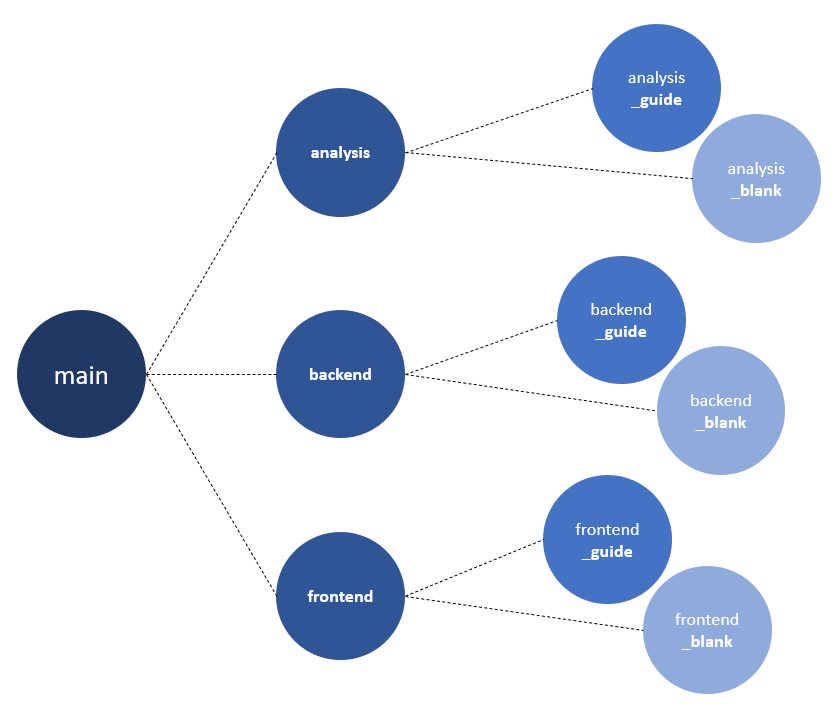
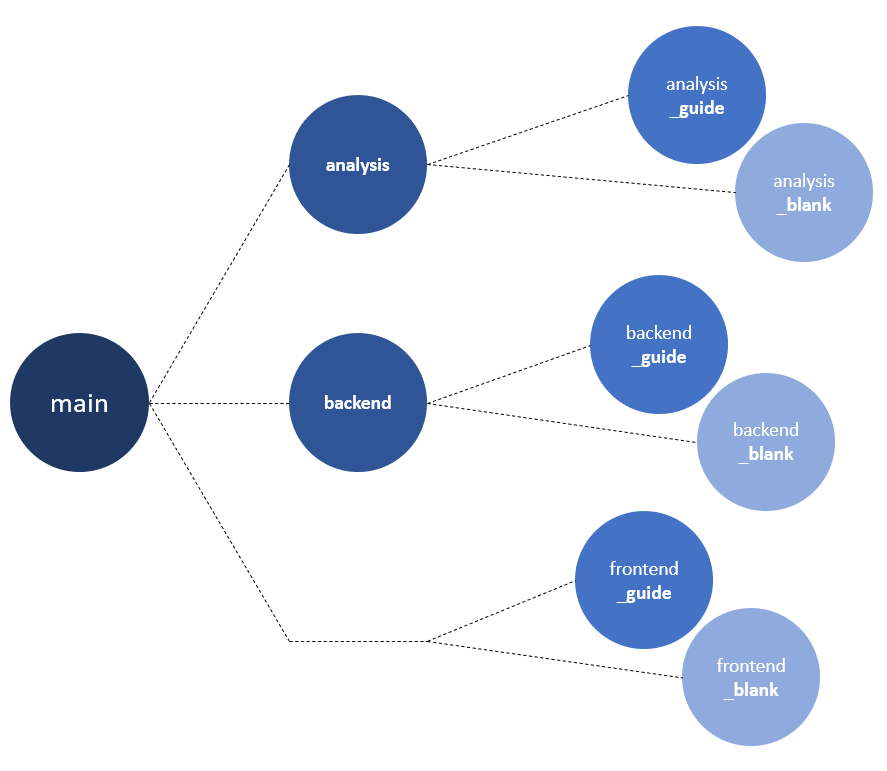
Updated README

diff --git a/frontend/src/App.jsx b/frontend/src/App.jsx
@@ -28,11 +28,11 @@ function App() {
 
   return (
 
-    <div className="App">
+    <div>
 
       <div className="powered-by">
-        <a href="https://www.trinnovative.de/">
-          <img className="logo" src={trinnovativeLogo} alt="Trinnovative" />
+        <a href="https://www.trinnovative.de/" target="_blank">
+          <img className="logo" src={trinnovativeLogo} alt="Trinnovative Logo"/>
         </a>
       </div>
 

diff --git a/README.md b/README.md
@@ -5,74 +5,35 @@
 2) **Backend**: Embed the machine learning model into a RESTful service.
 3) **Frontend**: Design a graphical user interface to interact with the machine learning service.
 
-The git branches of this project represent different stages of the project depending on your skills level. 
+The git branches of this project represent different stages of the project depending on your skills level. If you feel comfortable, you can start with the *blank* level of each section. The *blank* level contains task descriptions and some hints how to do so. If you need some more guidance, the *guide* level is recommended. The parent branch contains the solution - here you can look up difficult tasks or compare your own solution.
 
-### Choose your starting point: 
-- If you want to start with developing a machine learning model, then switch to branch analysis_blank. If you need some more guidance, switch to branch analysis_guide. In branch analysis you can find the final solution. 
-- If you want to skip the machine learning part, you can also directly jump into the backend or the frontend part. **Depending on your skills level, choose either the *_blank* or the *_guide* starting point**.
 ![](./images/git_branches.PNG)
 
+### Choose your starting point: 
+- If you want to start with developing a machine learning model, then switch to branch analysis_guide and find tasks there. If you need some guidance, switch to branch analysis_guide and follow the step-by-step guide. In branch analysis you can find the final solution. 
+- If you want to skip the machine learning part, you can also directly jump into the backend or the frontend part. **Depending on your skills level, choose either the *blank* or the *guide* starting point**.
+
+
 ### How to get there:
-You can easily switch between branches with the checkout command from git. For example: <code>git checkout analysis_guide</code>.
+- You can easily switch between branches with the checkout command from git. For example: <code>git checkout analysis_guide</code>.
 
-# Analysis
-## Preparation
-1) Go to the Python website (https://www.python.org/downloads/) and **download** the latest version of **Python** for your operating system. Follow the installation instructions to install Python on your machine.
-2) Open a command prompt or terminal window on your machine and install required **packages**: <code>pip install pandas matplotlib seaborn scikit-learn joblib</code>.
-3) In order to work with **Jupyter Notebooks** (.ipynb-files), it may be necessary to download the appropriate **extension** in VSCode.
-4) Let's start! Open file *analysis.ipynb* and follow the **step-by-step guide** there.
-
-## Tips and tricks
-- You can easily run jupyter cells with shortcut STRG + ENTER.
-
-# Backend
-
-## Preparation 
-- During the process it may be necessary to install some packages:  
-    - pip install pydantic
-    - pip install uvicorn
-    - pip install fastapi
+# Try the final version
+This branch (main) contains the final version of the project. Find some instructions below on how to get this final version run. For more detailed information please checkout branches *analysis*, *backend* and *frontend_guide*. 
+## Analysis
 - Run [analysis.ipynb](./backend/analysis/analysis.ipynb) with button *Run All*. This will create the machine learning model file *model.joblib* in folder [artifacts](./backend/artifacts/). 
-- If you developed your own machine learning model in the *analysis* level before, you can adjust the final model to your own favorites before exporting it (see last cell in jupyter notebook [analysis.ipynb](./backend/analysis/analysis.ipynb)).
+- Therefore it may be necessary to...
+    - Go to the Python website (https://www.python.org/downloads/) and **download** the latest version of **Python** for your operating system. Follow the installation instructions to install Python on your machine.
+    - Open a command prompt or terminal window on your machine and install required **packages**: <code>pip install pandas matplotlib seaborn scikit-learn joblib</code>.
+    - In order to work with **Jupyter Notebooks** (.ipynb-files), it may be necessary to download the appropriate **extension** in VSCode.
 
+## Backend
+- Run [main.py](./backend/src/main.py).
+- It may be necessary to install required packages (pip install pydantic uvicorn fastapi).
 
-## Step-by-step guide
-The aim of this backend is to put the machine learning model into a RESTful service, which enables to call the prediction model in an easy and standardized way.
-
-1) **Think before coding.** What are necessary building blocks? How would you structure the project? Think about a possible approach.
-
-2) **Let's start.** First of all, let's try to bring the model from *model.joblib* to life. Put it into a class which can be used to make predictions. Continue implementation in [prediction_model.py](./backend/src/prediction_model.py).
-3) The prediction model should be approachable via a REST call. Therefore, implement a REST endpoint. Continue implementation in [main.py](./backend/src/main.py).
-4) You may noticed, that requestors post some data, which serves as input for the prediction model. Define an appropriate datatype. Continue implementation in [data_types.py](./backend/src/data_types.py).
-
-5) **Let's see if it works!** If you think you are ready, run [main.py](/backend/src/main.py). Open a tool like postman and send a request to *localhost:80*. Do you get a response?
-
-    ![Postman Example](./images/postman_example.PNG)
-
-# Frontend
-## Preparation
-- Download nodejs https://nodejs.org/en/download/
-- cd src
-- npm create vite@latest frontend -- --template react
-- cd frontend
-- **npm install**
-- **npm run dev**
-- open link http://localhost:5173/ in your browser
-- see the default webpage
-- find the corresponding source code in App.jsx
-- the styling is defined in App.css
-- use this template to build your own webpage
-
-## Step-by-step guide
-Make it look good:
-- Replace the headline 
-- Replace the two logos with an image about California
-- Add some numerical input fields
-- Adjust the button
+## Frontend
+- Switch into direcotry *frontend*: <code>cd frontend</code>
+- Install dependencies: <code>npm install</code>
+- Run frontend: <code>npm run dev</code>
+- Open link http://localhost:5173/ in your browser.
 
 ![example](./images/frontend_example.PNG)
-
-
-Make it work:
-- npm install axios
-- 
